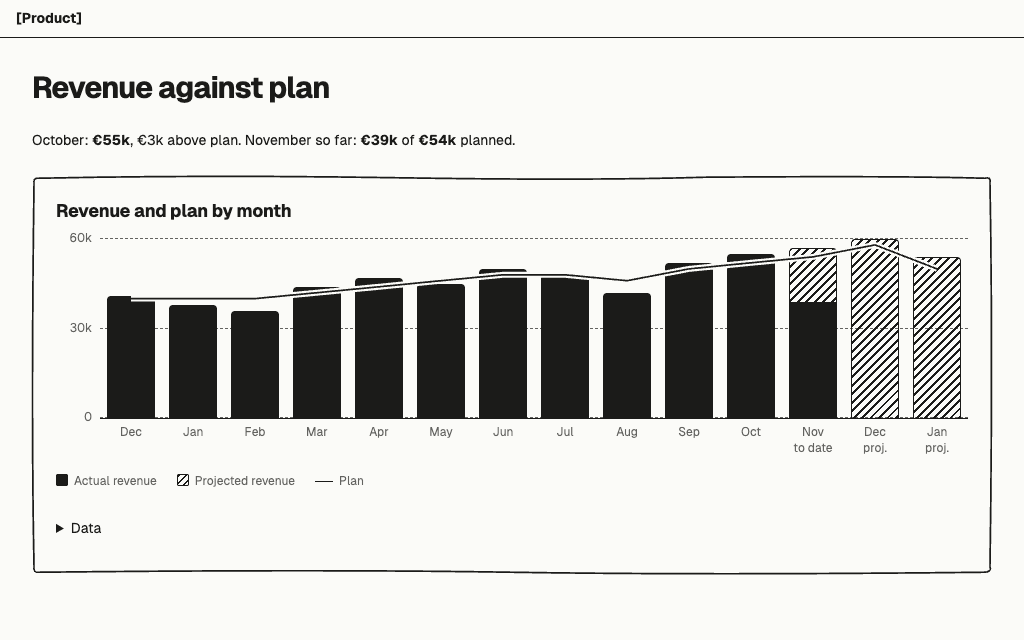
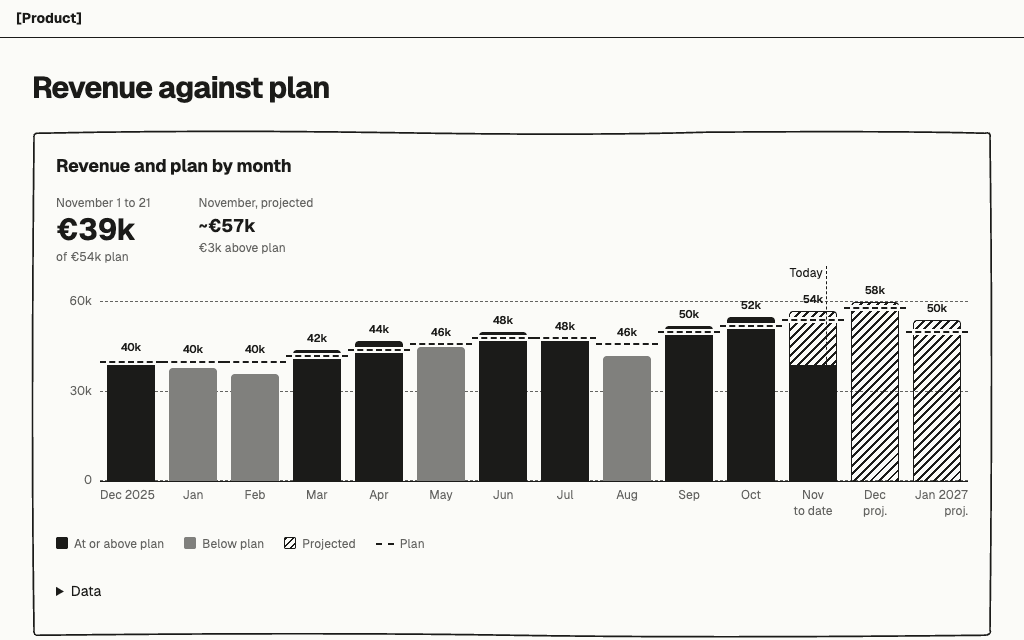
Rebuild the bars with a line template with plan ticks

diff --git a/templates/chart/bars-with-line.html b/templates/chart/bars-with-line.html
@@ -1,5 +1,5 @@
 <!-- Best for: A report that compares each monthly total with a plan or a target in the same unit, such as revenue against budget. -->
-<!-- Many periods: Up to 24 months fit at 390 px. The bars get narrower. Below 600 px, only every third month counted back from the current month, and the last projected month, keep a label. For more than 24 months, group the months into quarters. The line and the bars share one axis, so there is never a second scale. -->
+<!-- Many periods: Up to 24 months fit at 390 px. The bars get narrower. Below 600 px, only the first month and the current month keep a label, and the plan values hide. The hatch shows the projected months, and the summary gives the plan of the current month. For more than 24 months, group the months into quarters. The plan ticks and the bars share one axis, so there is never a second scale. -->
 <!doctype html>
 <html lang="en">
 <meta charset="utf-8">
@@ -10,69 +10,73 @@
 <header class="sketch-bar"><strong>[Product]</strong></header>
 <main class="sketch-main">
   <h1>Revenue against plan</h1>
-  <p>October: <b>€55k</b>, €3k above plan. November so far: <b>€39k</b> of <b>€54k</b> planned.</p>
   <section class="sketch-panel sketch-frame sketch-stack">
     <h2>Revenue and plan by month</h2>
-    <div class="sketch-chart" style="--n:14" role="img" aria-label="Revenue by month, in thousand euro: Dec 41k, Jan 38k, Feb 36k, Mar 44k, Apr 47k, May 45k, Jun 50k, Jul 48k, Aug 42k, Sep 52k, Oct 55k. November to date 39k, projected 57k. Projected December 60k, January 54k. Plan, in the same unit: Dec 40k, Jan 40k, Feb 40k, Mar 42k, Apr 44k, May 46k, Jun 48k, Jul 48k, Aug 46k, Sep 50k, Oct 52k, Nov 54k, Dec 58k, Jan 50k.">
+    <dl class="sketch-summary">
+      <div><dt>November 1 to 21</dt><dd><b>€39k</b> <span class="sketch-muted">of €54k plan</span></dd></div>
+      <div><dt>November, projected</dt><dd><b>~€57k</b> <span class="sketch-muted">€3k above plan</span></dd></div>
+    </dl>
+    <div class="sketch-chart" style="--n:14" role="img" aria-label="Revenue against plan by month, in thousand euro: Dec 2025 41 against 40, at or above plan, Jan 2026 38 against 40, below plan, Feb 2026 36 against 40, below plan, Mar 2026 44 against 42, at or above plan, Apr 2026 47 against 44, at or above plan, May 2026 45 against 46, below plan, Jun 2026 50 against 48, at or above plan, Jul 2026 48 against 48, at or above plan, Aug 2026 42 against 46, below plan, Sep 2026 52 against 50, at or above plan, Oct 2026 55 against 52, at or above plan. November to date 39, projected 57, against 54. Projected December 60 against 58, January 54 against 50.">
     <div class="sketch-plot">
       <span class="sketch-tick" style="--v:0%"><span>0</span></span>
       <span class="sketch-tick" style="--v:50%"><span>30k</span></span>
       <span class="sketch-tick" style="--v:100%"><span>60k</span></span>
-      <div class="minor"><i style="--v:68.3%"></i></div>
-      <div class="minor"><i style="--v:63.3%"></i></div>
-      <div><i style="--v:60%"></i></div>
-      <div class="minor"><i style="--v:73.3%"></i></div>
-      <div class="minor"><i style="--v:78.3%"></i></div>
-      <div><i style="--v:75%"></i></div>
-      <div class="minor"><i style="--v:83.3%"></i></div>
-      <div class="minor"><i style="--v:80%"></i></div>
-      <div><i style="--v:70%"></i></div>
-      <div class="minor"><i style="--v:86.7%"></i></div>
-      <div class="minor"><i style="--v:91.7%"></i></div>
-      <div class="partial minor"><i class="rest" style="--v:30%"></i><i style="--v:65%"></i></div>
-      <div class="projected minor"><i style="--v:100%"></i></div>
-      <div class="projected"><i style="--v:90%"></i></div>
-      <svg class="sketch-line" viewBox="0 0 140 100" preserveAspectRatio="none" aria-hidden="true"><polyline class="halo" points="5,33.3 15,33.3 25,33.3 35,30 45,26.7 55,23.3 65,20 75,20 85,23.3 95,16.7 105,13.3 115,10 125,3.3 135,16.7"/><polyline points="5,33.3 15,33.3 25,33.3 35,30 45,26.7 55,23.3 65,20 75,20 85,23.3 95,16.7 105,13.3 115,10 125,3.3 135,16.7"/></svg>
+      <span class="sketch-today" style="--x:83.6%"><span>Today</span></span>
+      <div><span class="plan" style="--p:66.7%"></span><b class="plan-value" style="--t:68.3%">40k</b><i style="--v:68.3%"></i></div>
+      <div class="below minor"><span class="plan" style="--p:66.7%"></span><b class="plan-value" style="--t:66.7%">40k</b><i style="--v:63.3%"></i></div>
+      <div class="below minor"><span class="plan" style="--p:66.7%"></span><b class="plan-value" style="--t:66.7%">40k</b><i style="--v:60%"></i></div>
+      <div class="minor"><span class="plan" style="--p:70%"></span><b class="plan-value" style="--t:73.3%">42k</b><i style="--v:73.3%"></i></div>
+      <div class="minor"><span class="plan" style="--p:73.3%"></span><b class="plan-value" style="--t:78.3%">44k</b><i style="--v:78.3%"></i></div>
+      <div class="below minor"><span class="plan" style="--p:76.7%"></span><b class="plan-value" style="--t:76.7%">46k</b><i style="--v:75%"></i></div>
+      <div class="minor"><span class="plan" style="--p:80%"></span><b class="plan-value" style="--t:83.3%">48k</b><i style="--v:83.3%"></i></div>
+      <div class="minor"><span class="plan" style="--p:80%"></span><b class="plan-value" style="--t:80%">48k</b><i style="--v:80%"></i></div>
+      <div class="below minor"><span class="plan" style="--p:76.7%"></span><b class="plan-value" style="--t:76.7%">46k</b><i style="--v:70%"></i></div>
+      <div class="minor"><span class="plan" style="--p:83.3%"></span><b class="plan-value" style="--t:86.7%">50k</b><i style="--v:86.7%"></i></div>
+      <div class="minor"><span class="plan" style="--p:86.7%"></span><b class="plan-value" style="--t:91.7%">52k</b><i style="--v:91.7%"></i></div>
+      <div class="partial"><span class="plan" style="--p:90%"></span><b class="plan-value" style="--t:95%">54k</b><i class="rest" style="--v:30%"></i><i style="--v:65%"></i></div>
+      <div class="projected minor"><span class="plan" style="--p:96.7%"></span><b class="plan-value" style="--t:100%">58k</b><i style="--v:100%"></i></div>
+      <div class="projected minor"><span class="plan" style="--p:83.3%"></span><b class="plan-value" style="--t:90%">50k</b><i style="--v:90%"></i></div>
     </div>
-    <ol class="sketch-periods" aria-hidden="true">
-      <li class="minor">Dec</li>
+    <ol class="sketch-periods ends" aria-hidden="true">
+      <li>Dec 2025</li>
       <li class="minor">Jan</li>
-      <li>Feb</li>
+      <li class="minor">Feb</li>
       <li class="minor">Mar</li>
       <li class="minor">Apr</li>
-      <li>May</li>
+      <li class="minor">May</li>
       <li class="minor">Jun</li>
       <li class="minor">Jul</li>
-      <li>Aug</li>
+      <li class="minor">Aug</li>
       <li class="minor">Sep</li>
       <li class="minor">Oct</li>
       <li>Nov<small>to date</small></li>
       <li class="minor">Dec<small>proj.</small></li>
-      <li>Jan<small>proj.</small></li>
+      <li class="minor">Jan 2027<small>proj.</small></li>
     </ol>
     </div>
     <ul class="sketch-key" aria-hidden="true">
-      <li><i></i>Actual revenue</li><li><i class="projected"></i>Projected revenue</li><li><i class="line"></i>Plan</li>
+      <li><i></i>At or above plan</li><li><i class="second"></i>Below plan</li><li><i class="projected"></i>Projected</li><li><i class="plan"></i>Plan</li>
     </ul>
     <details>
     <summary>Data</summary>
     <div class="sketch-table-box"><table class="sketch-table sketch-data">
-      <thead><tr><th>Month</th><th>State</th><th>Revenue</th><th>Plan</th></tr></thead>
+      <thead><tr><th>Month</th><th>Revenue</th><th>Plan</th><th>vs. plan</th></tr></thead>
       <tbody>
-          <tr><td>Dec 2025</td><td>Actual</td><td>€41k</td><td>€40k</td></tr>
-          <tr><td>Jan 2026</td><td>Actual</td><td>€38k</td><td>€40k</td></tr>
-          <tr><td>Feb 2026</td><td>Actual</td><td>€36k</td><td>€40k</td></tr>
-          <tr><td>Mar 2026</td><td>Actual</td><td>€44k</td><td>€42k</td></tr>
-          <tr><td>Apr 2026</td><td>Actual</td><td>€47k</td><td>€44k</td></tr>
-          <tr><td>May 2026</td><td>Actual</td><td>€45k</td><td>€46k</td></tr>
-          <tr><td>Jun 2026</td><td>Actual</td><td>€50k</td><td>€48k</td></tr>
-          <tr><td>Jul 2026</td><td>Actual</td><td>€48k</td><td>€48k</td></tr>
-          <tr><td>Aug 2026</td><td>Actual</td><td>€42k</td><td>€46k</td></tr>
-          <tr><td>Sep 2026</td><td>Actual</td><td>€52k</td><td>€50k</td></tr>
-          <tr><td>Oct 2026</td><td>Actual</td><td>€55k</td><td>€52k</td></tr>
-          <tr><td>Nov 2026</td><td>Actual to date, projected €57k</td><td>€39k</td><td>€54k</td></tr>
-          <tr><td>Dec 2026</td><td>Projected</td><td>€60k</td><td>€58k</td></tr>
-          <tr><td>Jan 2027</td><td>Projected</td><td>€54k</td><td>€50k</td></tr>
+          <tr><td>Dec 2025</td><td>€41k</td><td>€40k</td><td>+1k</td></tr>
+          <tr><td>Jan 2026</td><td>€38k</td><td>€40k</td><td>−2k</td></tr>
+          <tr><td>Feb 2026</td><td>€36k</td><td>€40k</td><td>−4k</td></tr>
+          <tr><td>Mar 2026</td><td>€44k</td><td>€42k</td><td>+2k</td></tr>
+          <tr><td>Apr 2026</td><td>€47k</td><td>€44k</td><td>+3k</td></tr>
+          <tr><td>May 2026</td><td>€45k</td><td>€46k</td><td>−1k</td></tr>
+          <tr><td>Jun 2026</td><td>€50k</td><td>€48k</td><td>+2k</td></tr>
+          <tr><td>Jul 2026</td><td>€48k</td><td>€48k</td><td>+0k</td></tr>
+          <tr><td>Aug 2026</td><td>€42k</td><td>€46k</td><td>−4k</td></tr>
+          <tr><td>Sep 2026</td><td>€52k</td><td>€50k</td><td>+2k</td></tr>
+          <tr><td>Oct 2026</td><td>€55k</td><td>€52k</td><td>+3k</td></tr>
+          <tr><td>Nov 2026 to date</td><td>€39k</td><td>€54k</td><td>–</td></tr>
+          <tr><td>Nov 2026 proj.</td><td>€57k</td><td>€54k</td><td>+3k</td></tr>
+          <tr><td>Dec 2026 proj.</td><td>€60k</td><td>€58k</td><td>+2k</td></tr>
+          <tr><td>Jan 2027 proj.</td><td>€54k</td><td>€50k</td><td>+4k</td></tr>
       </tbody>
     </table></div>
   </details>

diff --git a/assets/sketch.css b/assets/sketch.css
@@ -360,6 +360,21 @@ html[data-theme="dark"] [data-sketch], html[data-theme="dark"][data-sketch] {
 [data-sketch] .sketch-trend { text-align: right; white-space: nowrap; }
 [data-sketch] .sketch-trend > span { display: block; font-variant-numeric: tabular-nums; }
 [data-sketch] .sketch-trend > svg { width: 120px; height: 28px; }
+/* A plan or a target on a period: <span class="plan" style="--p:90%"></span> and <b class="plan-value" style="--t:95%">54k</b> before the bars of the period. The tick is dashed.
+   A band of page around it keeps it visible on a solid bar. "below" on a period draws its bar in the thinned ink, so a bar below its plan differs in tone and in its place against the tick. */
+[data-sketch] .sketch-plot:has(> div > .plan) { margin-top: 20px; }
+[data-sketch] .sketch-plot > div > .plan { position: absolute; left: 0; right: 0; bottom: var(--p); z-index: 1; height: 6px; translate: 0 50%; background: var(--sketch-page); }
+[data-sketch] .sketch-plot > div > .plan::before { content: ""; position: absolute; left: 0; right: 0; top: 2px; border-top: 2px dashed var(--sketch-ink); }
+[data-sketch] .sketch-plot > div > b.plan-value { position: absolute; bottom: calc(var(--t) + 4px); left: 50%; translate: -50%; margin: 0; font-size: 11px; } /* The plan value: --t is the top of the plan tick or of the bar, whichever is higher. */
+[data-sketch] .sketch-plot > div.below > i { background: color-mix(in srgb, var(--sketch-ink) 55%, var(--sketch-page)); }
+[data-sketch] .sketch-key i.plan { width: 18px; height: 0; border-radius: 0; background: none; border-top: 2px dashed var(--sketch-ink); vertical-align: 3px; }
+/* Today in a plot: <span class="sketch-today" style="--x:83.6%"><span>Today</span></span>. A dashed vertical line with its label on the left, above the plot and its value labels. */
+[data-sketch] .sketch-plot:has(> .sketch-today) { margin-top: 36px; } /* Room for the label of today above the plan values. */
+[data-sketch] .sketch-today { position: absolute; top: -36px; bottom: 0; left: var(--x); z-index: 2; border-left: var(--sketch-stroke) dashed var(--sketch-ink); pointer-events: none; }
+[data-sketch] .sketch-today > span { position: absolute; top: 0; right: 4px; font-size: 12px; line-height: 1.2; white-space: nowrap; }
+@media (max-width: 599px) {
+  [data-sketch] .sketch-plot > div > b.plan-value { display: none; } /* Below 600 px, a plan value is wider than its period. */
+}
 /* Stat tiles that choose a chart: <div class="sketch-tabs sketch-tiles"> with a <button role="tab"> for each tile. A tile holds a label, a <b> value, a change and a sketch-spark. The chosen tile has a drawn frame. */
 [data-sketch] .sketch-tabs.sketch-tiles { display: grid; grid-template-columns: repeat(2, minmax(0, 1fr)); gap: 8px; overflow: visible; }
 [data-sketch] .sketch-tiles [role="tab"] { display: grid; gap: 2px; align-content: start; justify-items: start; padding: 12px; text-align: left; white-space: normal; border-bottom: 0; border-radius: var(--sketch-wobble); }

diff --git a/references/charts/bars-with-line.md b/references/charts/bars-with-line.md
@@ -5,19 +5,28 @@ Template: `templates/chart/bars-with-line.html`. The rules for every chart are i
 ## When to use it
 
 - The reader compares the total of each month with a plan, a budget or a target.
-- The bars and the line have the same unit, so they share one axis.
+- The bars and the plan have the same unit, so they share one axis.
+- The plan can change from month to month.
 
 ## When not to use it
 
-- The line has another unit than the bars, such as a margin in percent over revenue in euro. A second axis is easy to misread. Draw two charts, one above the other, with the same months.
-- The plan is the same for every month. Draw one grid line with the plan value.
+- The plan has another unit than the bars, such as a margin in percent over revenue in euro. A second axis is easy to misread. Draw two charts, one above the other, with the same months.
+- The plan is the same for every month. Draw one `sketch-ref` line with the plan value.
 - The reader needs only the difference from plan. Draw bars of the difference from a zero line.
-- Each month has more than one bar. The line then has no clear bar to compare with.
+- Each month has more than one bar. The plan tick then has no clear bar to compare with.
+
+## Plan tick, not an outline bar
+
+The plan of each month is a dashed tick across its period, with the plan value above it. A continuous line is not used, because it suggests values between the months. An outline bar for the plan that the actual bar fills is not used either. A bar above its plan would hide the outline, and an outline is already the sign of a projected bar.
 
 ## Many periods
 
-Up to 24 months fit at 390 px. The bars get narrower. Below 600 px, only every third month counted back from the current month, and the last projected month, keep a label. For more than 24 months, group the months into quarters. The bars have no value labels, because the line crosses them. Three grid lines give the scale, and the data table gives each value.
+Up to 24 months fit at 390 px. The bars get narrower. From 600 px, each month has a label and a plan value. The plan value sits above the tick or above the bar, whichever is higher. Below 600 px, only the first month and the current month keep a label, and the plan values hide, because a value is wider than its period. Three grid lines give the scale, the summary gives the plan of the current month, and the data table gives each value. For more than 24 months, group the months into quarters.
+
+## Above and below plan
+
+A complete month at or above its plan is solid. A complete month below its plan is in the thinned ink of `below`. The tone is not the only sign: the top of the bar is above or below its tick. The key names both, and the data table gives the difference from plan of each month.
 
 ## Current and projected periods
 
-The current month shows its actual value to date in solid and its projected rest in hatch on top. Each projected month is hatched. The plan line continues over the projected months. The line has a gap of page colour around it, so it stays visible where it crosses a solid bar.
+The summary above the chart gives the value to date against the plan of the month, and the projected total against the plan. A dashed vertical line marks today, with the label "Today". The current month shows its actual value to date in solid and its projected rest in hatch on top. Each projected month is hatched and has its plan tick. The tick has a band of page around it, so it stays visible on a solid bar.

diff --git a/references/charts.md b/references/charts.md
@@ -45,6 +45,9 @@ The classes are in `assets/sketch.css`, after the sparkline.
 - `compare` on a `polyline` in a `sketch-line` draws a thin line for an earlier period, such as October. Name it in the key with `<i class="line compare">`.
 - `<i class="second">` before the other `<i>` of a period is the upper part of a split bar. Name it in the key with `<i class="second">`.
 - `<span class="sketch-ref" style="--v:25%"><span>Minimum €100k</span></span>` in a plot draws a reference level with its label on the right.
+- `<span class="plan" style="--p:90%"></span>` and `<b class="plan-value" style="--t:95%">54k</b>` before the bars of a period draw a dashed plan tick and its value. Set `--t` to the top of the tick or of the bar, whichever is higher. The value hides below 600 px. Name the tick in the key with `<i class="plan">`.
+- `below` on a period draws its bar in the thinned ink, for a month below its plan.
+- `<span class="sketch-today" style="--x:83.6%"><span>Today</span></span>` in a plot draws a dashed vertical line at today. Set `--x` to the place of today across the plot.
 - `ends` on a `sketch-periods` row keeps its first and last label inside the chart. Then give the first and the last label a year, such as "Dec 2025".
 - `<dl class="sketch-summary">` holds the numbers above a chart, one `div` of `dt` and `dd` for each. The first value is the largest. A `span` after the value is its change.
 - `<td class="sketch-trend">` holds the change in a `span` above a `sketch-spark`, in a table row. The sparkline is 120 px wide, and 80 px below 600 px.
